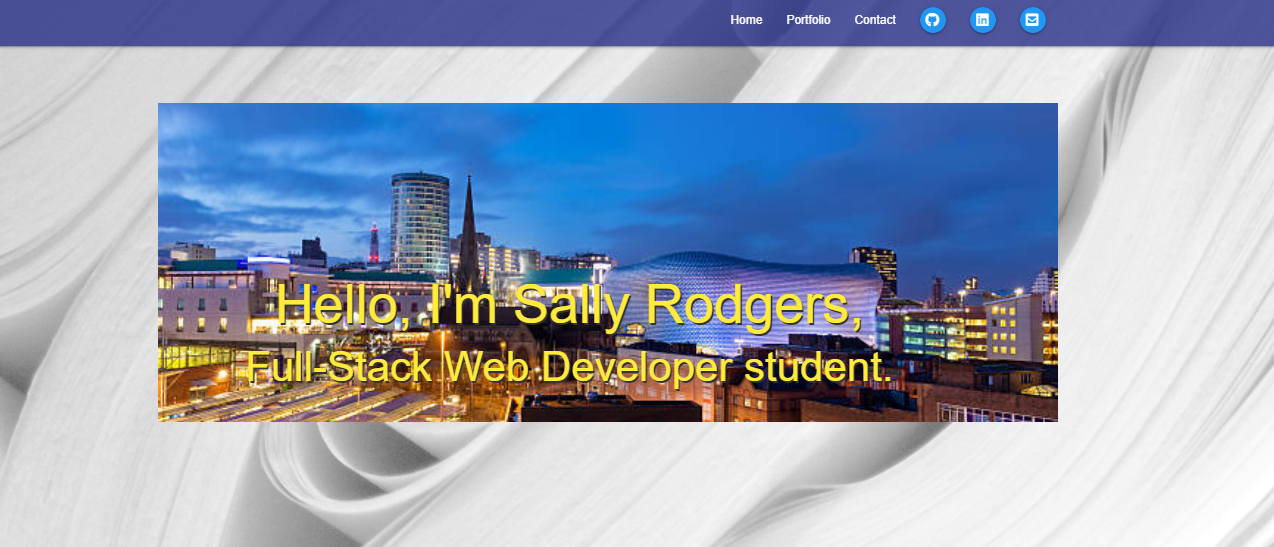
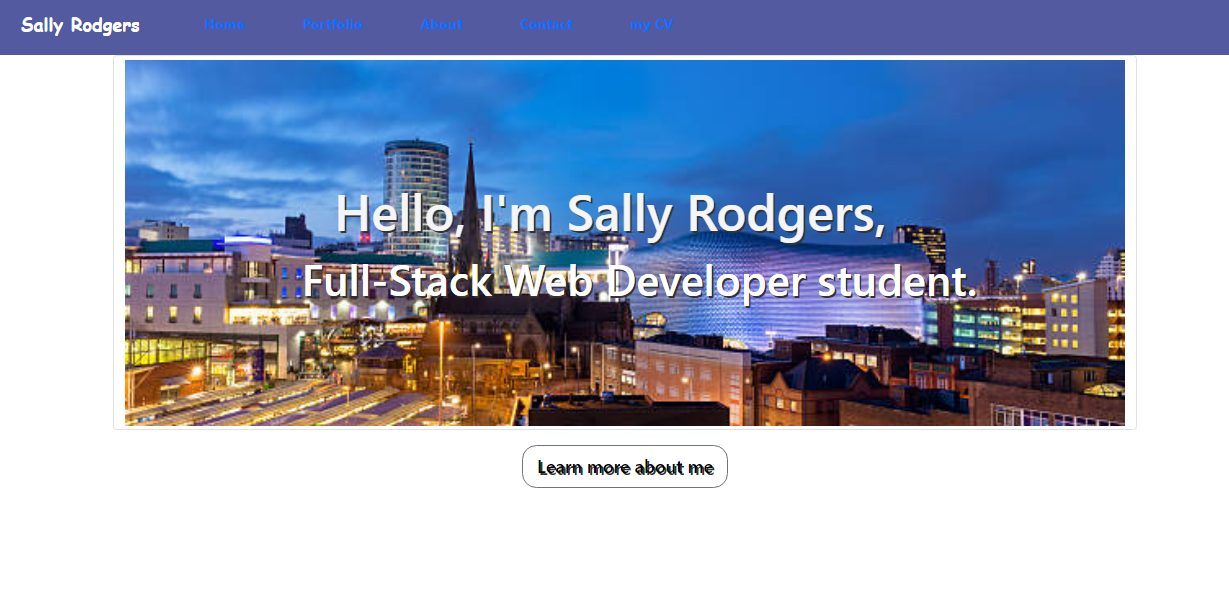
updated readme and added new images from Portfolio-React

diff --git a/src/styles/home.css b/src/styles/home.css
@@ -17,7 +17,7 @@
 .display-4 {
     color: #f5f5f5;
     background-color: transparent;
-    text-align: left;
+    text-align: center;
     font-weight: 500;
     text-shadow: 2px 2px #333;
     position: absolute;

diff --git a/README.md b/README.md
@@ -1,6 +1,6 @@
 # React Portfolio
 (formerly Personal-Portfolio)
-This repository has been created to consolidate a 'first view' portfolio of early work created on my journey to become a Full Stack Web Developer.
+This repository has been created to consolidate a 'first view' portfolio of work created on my journey to become a Full Stack Web Developer.
 
 1.  Link to CV: For further information, please email hellosally1@yahoo.com
 
@@ -17,12 +17,10 @@ https://sallyxp.github.io/Portfolio-React/#/Portfolio-React/portfolio open the H
  
  # Usage
  
-This repository contains an HTML page and associated files used to demonstrate my current abilities on my journey to become a Full Stack Web Developer. 
+This repository contains components, pages and associated files used to demonstrate my current abilities on my journey to become a Full Stack Web Developer. 
 
 
-The site is one continuous web page, which is mobile-responsive, starting with a short biography.  The navigation bar navigates within the document, taking the user
-
-and various icons & names of technologies used. Beneath the image is also a link to my CV, held on my Google Drive.  In addition this link is also listed above.
+The site is mobile-responsive.  The navigation bar navigates around the pages listed. There is also a link to my CV, held on my Google Drive.  In addition this link is also listed above.
 
 
 ![alt text](ReadmeImages/HTML-part1-Summary.png)
@@ -32,6 +30,9 @@ and various icons & names of technologies used. Beneath the image is also a link
 
 ![alt text](ReadmeImages/HTML-part3-Portfolio.png)
 
+![alt text](ReadmeImages/HTML-part4-contact.png)
+
+![alt text](ReadmeImages/HTML-part5-myCV.png)
 
 
 
@@ -39,26 +40,27 @@ and various icons & names of technologies used. Beneath the image is also a link
 
 
 
-The next section contains a parallax image of Birmingham City Centre, and then below it, My Portfolio.
 
+
+Home contains an evening image of Birmingham City Centre, and also a direct link to  My Portfolio.
+
+The portfolio tells information of 3 projects.
 The first item is a Week-Day-Scheduler, there is a brief description of it, a screenshot, a link to its Github Repository and another link to the deployed webpage.
 
 The second item is an earlier project, a random password generator.  There is again an image of its landing page, a brief description, a link to its Github Repository and 
 also to its deployed website.
 
-The third item, a Few Fries Short, is a recent group collaboration written in node.js, javascript and mySQL2.  It uses the Model-View-Controller paradigm and allows the user to write reviews and comment on others (if logged into the system).
+The third item, a Few Fries Short, is a group collaboration written in node.js, javascript and mySQL2.  It uses the Model-View-Controller paradigm and allows the user to write reviews and comment on others (if logged into the system).
 
 There is a sticky footer at the base of the page.
 
 # Technologies Used
 
-The site is written using HTML 5, CSS 3, Materialize, Bootstrap and JavaScript.  Images have been cited within the repository.  Public images have been obtained via 
-
-unsplash.com.  Icons have been used from Font Awesome.
+The site is written using HTML, CSS, React, Bootstrap and JavaScript.  Images have been cited within the repository. Icons have been used from Font Awesome.
 
 # Contributors
 I should like to thank:
-Brian Lewicki and JJ Ying from Unsplash whose royalty-free images I have used within this project. 
+Brian Lewicki from Unsplash whose royalty-free images I have used within this project. 
 
 # Licence
 
